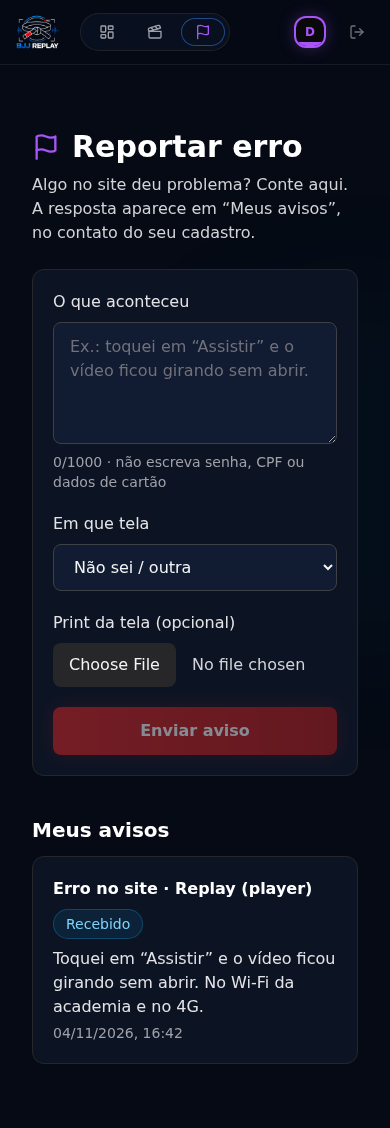
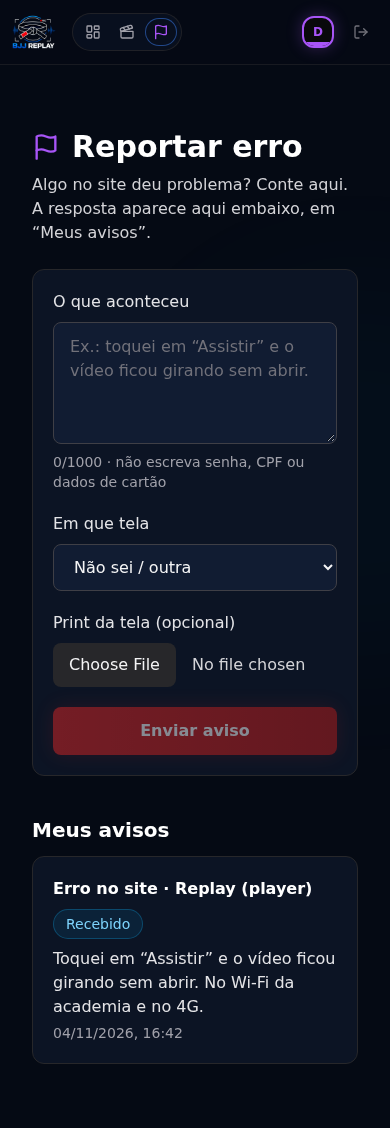
lider: Reportar erro — menu cabe em 390px no admin, prints refeitos (fila de Chamados empilhada no celular, texto 'Meus avisos' sem prometer contato)
A tabela de Chamados cortava Aluno/Chamado no celular e o menu do admin
passava da tela; o texto do aluno dizia que a resposta ia ao contato do
cadastro, mas ela só aparece em Meus avisos. Admin e Chamados acendiam juntos.

diff --git a/front/components/layout/AppShell.tsx b/front/components/layout/AppShell.tsx
@@ -57,7 +57,7 @@ export function AppShell({ children, sidebar }: { children: ReactNode; sidebar?:
         {/* Linha de brilho no rodapé do header */}
         <div className="absolute inset-x-0 bottom-0 h-px bg-gradient-to-r from-transparent via-neon/25 to-transparent" />
 
-        <div className="mx-auto flex h-16 max-w-7xl items-center justify-between gap-4 px-4 sm:h-20 sm:px-6">
+        <div className="mx-auto flex h-16 max-w-7xl items-center justify-between gap-2 px-3 sm:h-20 sm:gap-4 sm:px-6">
           <div className="flex items-center gap-3">
             {sidebar && (
               <button
@@ -86,7 +86,7 @@ export function AppShell({ children, sidebar }: { children: ReactNode; sidebar?:
                     key={item.href}
                     href={item.href}
                     className={cn(
-                      'relative flex items-center gap-2 rounded-full px-2.5 py-1.5 text-sm sm:px-3.5 transition-colors duration-300',
+                      'relative flex items-center gap-2 rounded-full px-2 py-1.5 text-sm sm:px-3.5 transition-colors duration-300',
                       active ? 'text-neon' : 'text-zinc-400 hover:text-zinc-100'
                     )}
                   >
@@ -105,7 +105,7 @@ export function AppShell({ children, sidebar }: { children: ReactNode; sidebar?:
             </nav>
           </div>
 
-          <div className="flex items-center gap-3">
+          <div className="flex items-center gap-2 sm:gap-3">
             {/* Chip do usuário → perfil */}
             <Link
               href="/perfil"
